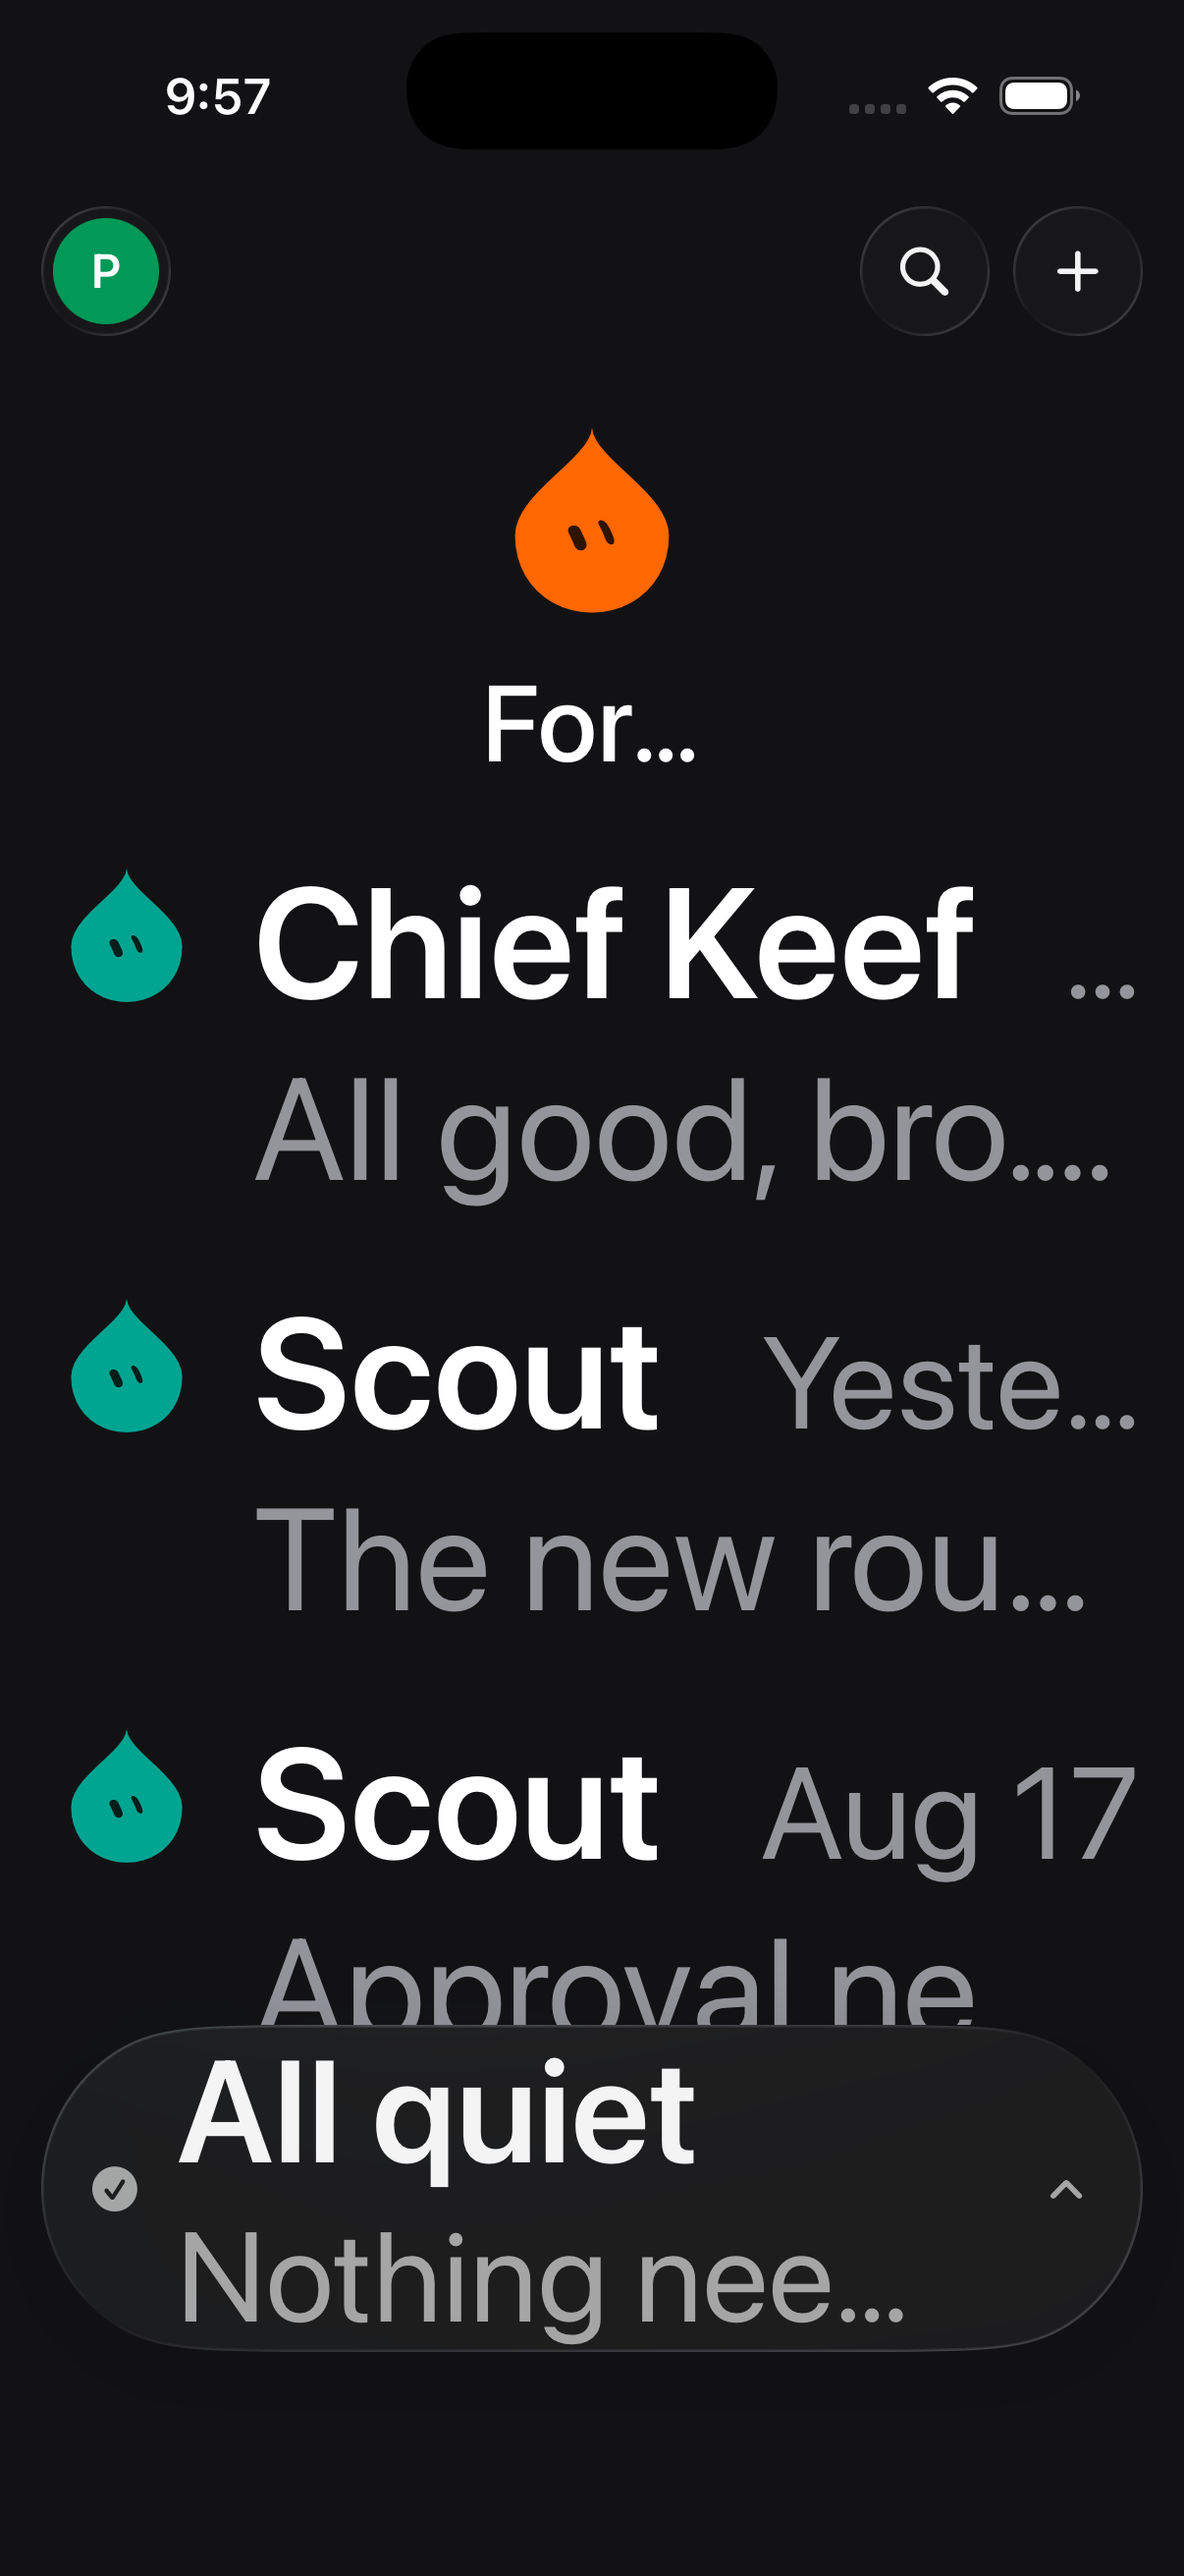
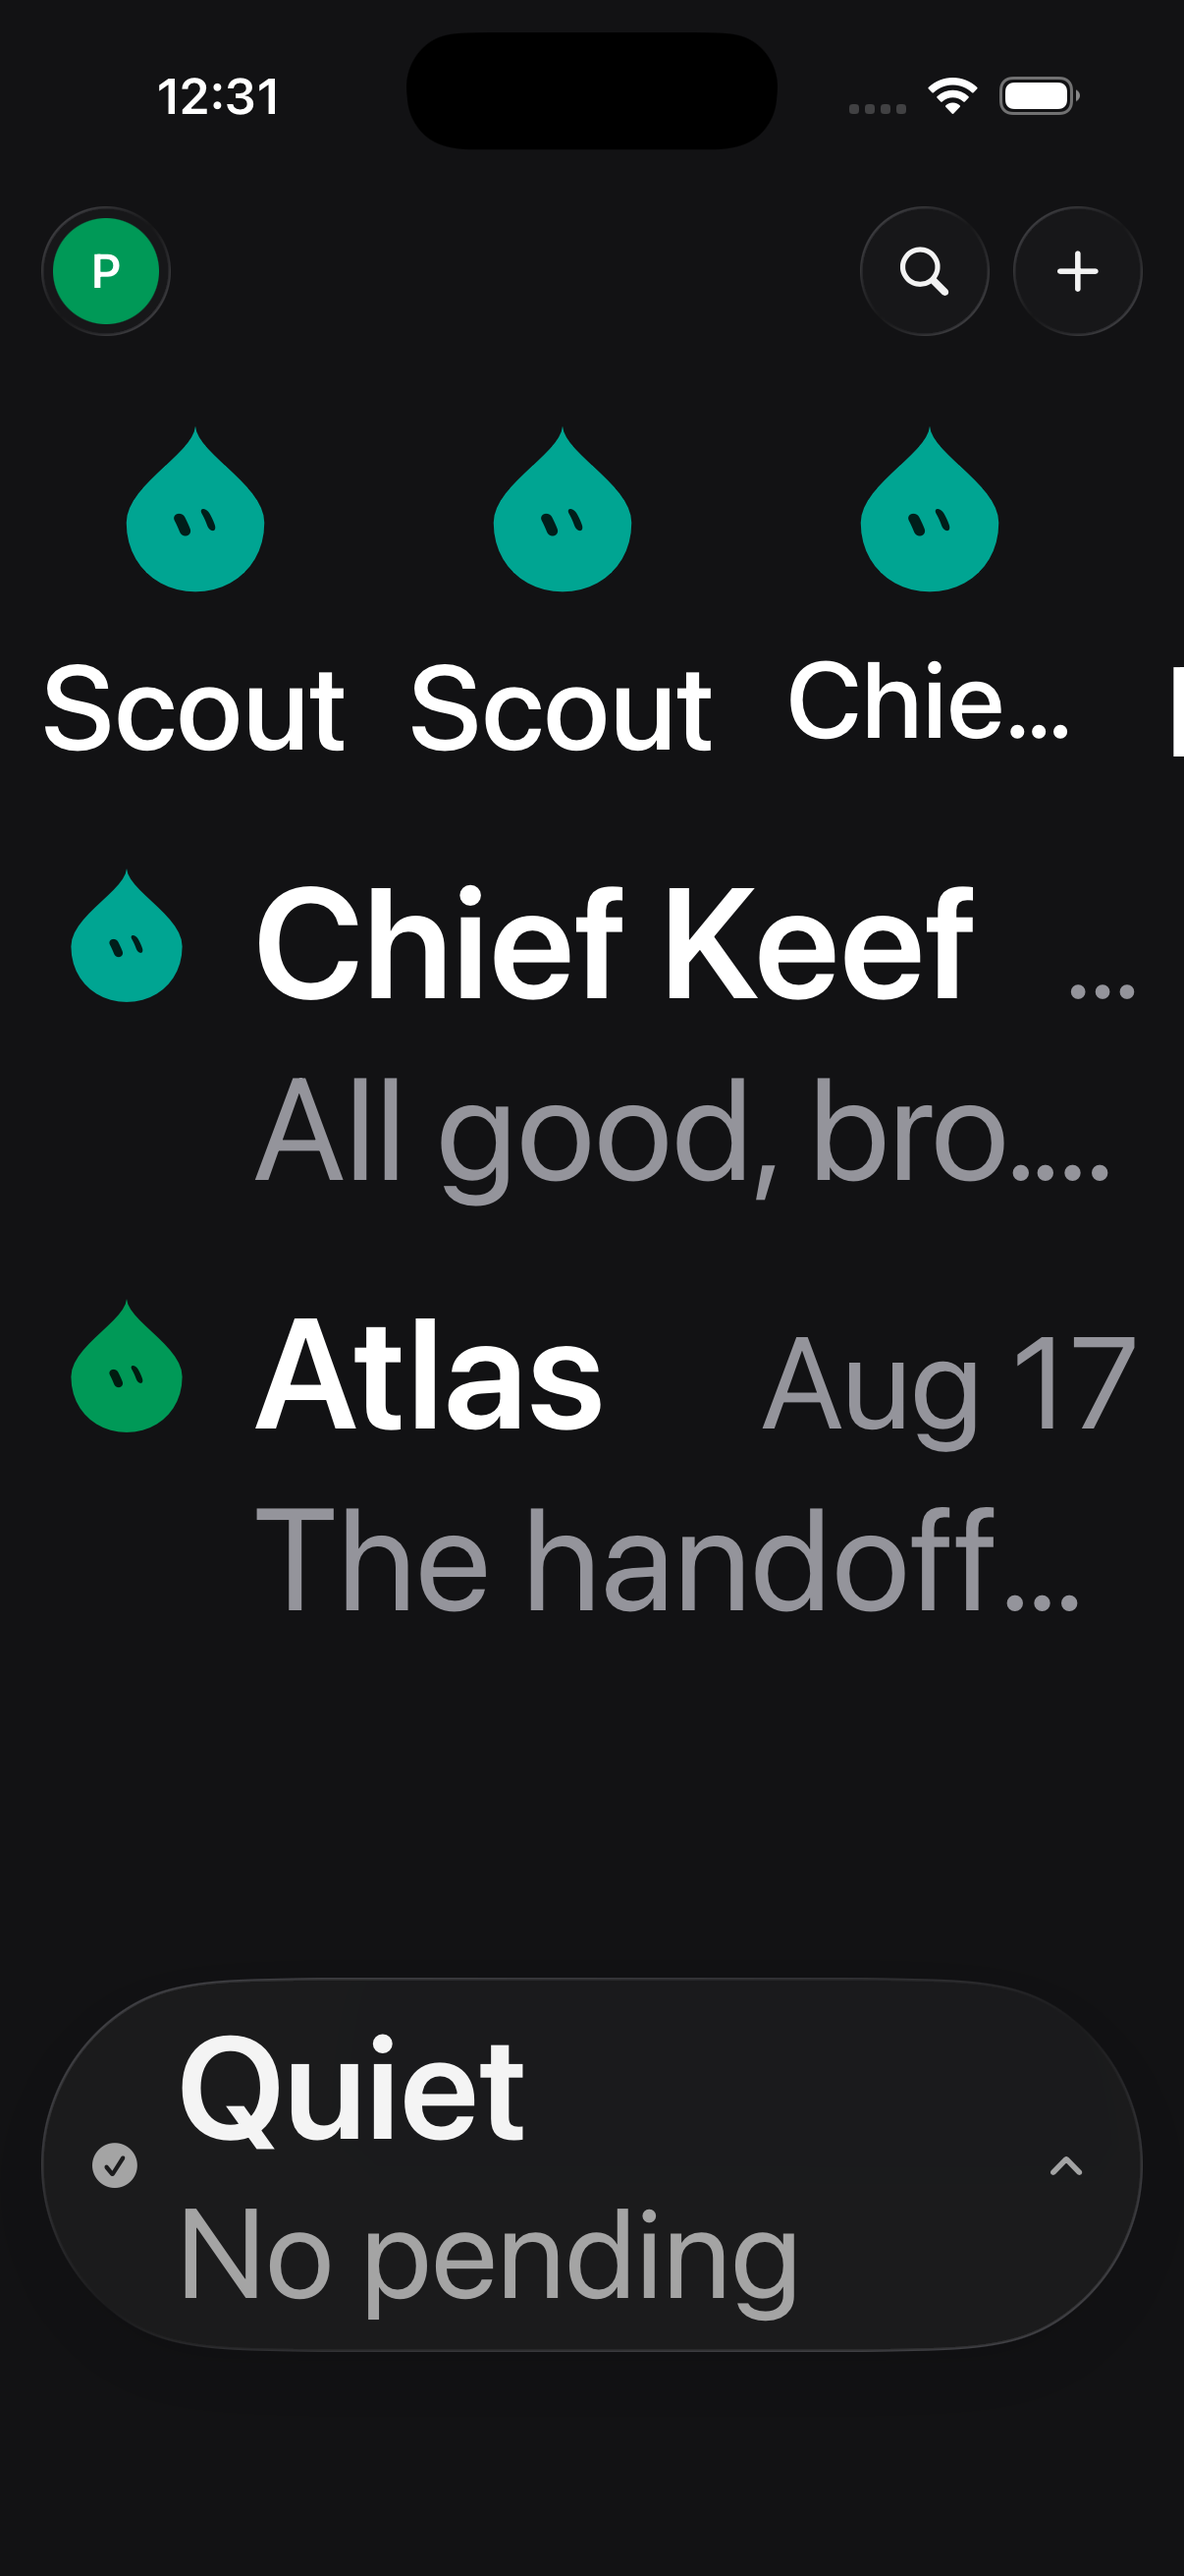
fix(ios): contain accessibility activity rail

diff --git a/ios/App/HomeActivityPill.swift b/ios/App/HomeActivityPill.swift
@@ -79,14 +79,21 @@ struct HomeActivityPill: View {
                     .foregroundStyle(tint)
 
                 VStack(alignment: .leading, spacing: 1) {
-                    Text(presentation.collapsedTitle)
+                    Text(collapsedTitle)
                         .font(.subheadline.weight(.semibold))
-                        .lineLimit(1)
-                    Text(presentation.collapsedSubtitle)
+                        .lineLimit(HomeActivityRailLayoutPolicy.collapsedTitleLineLimit(
+                            isAccessibilitySize: dynamicTypeSize.isAccessibilitySize
+                        ))
+                        .fixedSize(horizontal: false, vertical: true)
+                    Text(collapsedSubtitle)
                         .font(.caption)
                         .foregroundStyle(.secondary)
-                        .lineLimit(1)
+                        .lineLimit(HomeActivityRailLayoutPolicy.collapsedSubtitleLineLimit(
+                            isAccessibilitySize: dynamicTypeSize.isAccessibilitySize
+                        ))
+                        .fixedSize(horizontal: false, vertical: true)
                 }
+                .fixedSize(horizontal: false, vertical: true)
 
                 Spacer(minLength: 8)
                 Image(systemName: expanded ? "chevron.down" : "chevron.up")
@@ -96,10 +103,19 @@ struct HomeActivityPill: View {
             }
             .padding(.leading, 14)
             .padding(.trailing, 4)
-            .frame(minHeight: VBotSurface.Hit.minimum)
+            .padding(.vertical, HomeActivityRailLayoutPolicy.collapsedVerticalPadding(
+                isAccessibilitySize: dynamicTypeSize.isAccessibilitySize
+            ))
+            .frame(
+                minHeight: HomeActivityRailLayoutPolicy.collapsedMinimumHeight(
+                    isAccessibilitySize: dynamicTypeSize.isAccessibilitySize
+                )
+            )
+            .fixedSize(horizontal: false, vertical: true)
             .contentShape(Capsule())
         }
         .buttonStyle(.plain)
+        .fixedSize(horizontal: false, vertical: true)
         .glassCapsule()
         .accessibilityElement(children: .ignore)
         .accessibilityLabel(presentation.accessibilityLabel)
@@ -165,6 +181,34 @@ struct HomeActivityPill: View {
         case .quiet: return .secondary
         case .active: return .accentColor
         case .needsAttention: return .orange
+        }
+    }
+
+    private var collapsedTitle: String {
+        guard HomeActivityRailLayoutPolicy.usesCompactCopy(
+            isAccessibilitySize: dynamicTypeSize.isAccessibilitySize
+        ) else { return presentation.collapsedTitle }
+        switch presentation.state {
+        case .quiet:
+            return "Quiet"
+        case .needsAttention:
+            return "\(presentation.needsYou.count) waiting"
+        case .active:
+            return "\(presentation.totalActivityCount) active"
+        }
+    }
+
+    private var collapsedSubtitle: String {
+        guard HomeActivityRailLayoutPolicy.usesCompactCopy(
+            isAccessibilitySize: dynamicTypeSize.isAccessibilitySize
+        ) else { return presentation.collapsedSubtitle }
+        switch presentation.state {
+        case .quiet:
+            return "No pending"
+        case .needsAttention:
+            return "Review now"
+        case .active:
+            return "Working now"
         }
     }
 }

diff --git a/ios/Tests/CompanionCoreTests/HomeActivityRailLayoutPolicyTests.swift b/ios/Tests/CompanionCoreTests/HomeActivityRailLayoutPolicyTests.swift
@@ -1,0 +1,55 @@
+import XCTest
+@testable import CompanionCore
+
+final class HomeActivityRailLayoutPolicyTests: XCTestCase {
+    func testRegularCollapsedRailRetainsCompactPremiumMetrics() {
+        XCTAssertEqual(
+            HomeActivityRailLayoutPolicy.collapsedTitleLineLimit(isAccessibilitySize: false),
+            1
+        )
+        XCTAssertEqual(
+            HomeActivityRailLayoutPolicy.collapsedSubtitleLineLimit(isAccessibilitySize: false),
+            1
+        )
+        XCTAssertEqual(
+            HomeActivityRailLayoutPolicy.collapsedMinimumHeight(isAccessibilitySize: false),
+            44
+        )
+        XCTAssertEqual(
+            HomeActivityRailLayoutPolicy.collapsedVerticalPadding(isAccessibilitySize: false),
+            0
+        )
+    }
+
+    func testAccessibilityCollapsedRailUsesCompactSingleLineLabels() {
+        XCTAssertEqual(
+            HomeActivityRailLayoutPolicy.collapsedTitleLineLimit(isAccessibilitySize: true),
+            1
+        )
+        XCTAssertEqual(
+            HomeActivityRailLayoutPolicy.collapsedSubtitleLineLimit(isAccessibilitySize: true),
+            1
+        )
+        XCTAssertTrue(
+            HomeActivityRailLayoutPolicy.usesCompactCopy(isAccessibilitySize: true)
+        )
+        XCTAssertFalse(
+            HomeActivityRailLayoutPolicy.usesCompactCopy(isAccessibilitySize: false)
+        )
+        XCTAssertEqual(
+            HomeActivityRailLayoutPolicy.collapsedMinimumHeight(isAccessibilitySize: true),
+            112
+        )
+        XCTAssertEqual(
+            HomeActivityRailLayoutPolicy.collapsedVerticalPadding(isAccessibilitySize: true),
+            8
+        )
+    }
+
+    func testAccessibilityRailIsTallerThanRegularRail() {
+        XCTAssertGreaterThan(
+            HomeActivityRailLayoutPolicy.collapsedMinimumHeight(isAccessibilitySize: true),
+            HomeActivityRailLayoutPolicy.collapsedMinimumHeight(isAccessibilitySize: false)
+        )
+    }
+}

diff --git a/ios/Sources/CompanionCore/HomeActivityRailLayoutPolicy.swift b/ios/Sources/CompanionCore/HomeActivityRailLayoutPolicy.swift
@@ -1,0 +1,26 @@
+import CoreGraphics
+
+/// Layout metrics for the collapsed home activity rail. Accessibility text
+/// uses compact, single-line visual copy with a larger vertical budget; keeping
+/// the decision in core makes the view's sizing contract testable without Xcode.
+public enum HomeActivityRailLayoutPolicy: Sendable {
+    public static func collapsedTitleLineLimit(isAccessibilitySize: Bool) -> Int {
+        1
+    }
+
+    public static func collapsedSubtitleLineLimit(isAccessibilitySize: Bool) -> Int {
+        1
+    }
+
+    public static func usesCompactCopy(isAccessibilitySize: Bool) -> Bool {
+        isAccessibilitySize
+    }
+
+    public static func collapsedMinimumHeight(isAccessibilitySize: Bool) -> CGFloat {
+        isAccessibilitySize ? 112 : 44
+    }
+
+    public static func collapsedVerticalPadding(isAccessibilitySize: Bool) -> CGFloat {
+        isAccessibilitySize ? 8 : 0
+    }
+}

diff --git a/ios/TESTING.md b/ios/TESTING.md
@@ -173,7 +173,7 @@ paid account is required to run on your own phone.
 
 ---
 
-## Integrated home-activity release gate (2026-08-31)
+## Integrated home-activity release gate (2026-09-01 final verification)
 
 This is the verified simulator evidence for the home activity and connection
 feedback changes on `feat/vbot-ios-home-activity-0831`. It is evidence for this
@@ -211,28 +211,40 @@ fully readable without covering roster rows; normal launches are unchanged.
 
 The home activity rail is a sibling below the roster scroll view. Its full
 expanded height is reserved even at accessibility XXXL, so enlarged rows stay
-outside the panel and remain reachable by scrolling. Reduce Motion removes the
+outside the panel and remain reachable by scrolling. The collapsed rail keeps
+the normal premium 44-point appearance, while accessibility sizes use compact
+single-line visual copy and a 112-point minimum height so XXXL labels stay
+inside the capsule without crossing the roster or expanded-panel boundary.
+VoiceOver continues to receive the full presentation label/value, and the
+button remains one tappable hit target. Reduce Motion removes the
 spring/rotation transitions while retaining the same content and hit targets.
 
 Verified commands (all passed):
 
 ```sh
+swift test --package-path ios --filter 'HomeActivityRailLayoutPolicyTests|HomeActivityPresentationTests|HomeActivityPreviewExpansionPolicyTests'
 swift test --package-path ios
 (cd ios && xcodegen generate)
 xcodebuild -project ios/OpenMausCompanion.xcodeproj -scheme OpenMausCompanion \
   -sdk iphonesimulator -configuration Debug \
   -destination 'platform=iOS Simulator,id=334FC58E-19DA-460C-AC2A-1D34D7CAA916' \
-  -derivedDataPath /tmp/vbot-task4-debug-derived-0831 \
+  -derivedDataPath /tmp/vbot-pill-fix-final-debug-0901 \
   CODE_SIGNING_ALLOWED=NO CODE_SIGNING_REQUIRED=NO build
 xcodebuild -project ios/OpenMausCompanion.xcodeproj -scheme OpenMausCompanion \
   -sdk iphonesimulator -configuration Release \
   -destination 'platform=iOS Simulator,id=334FC58E-19DA-460C-AC2A-1D34D7CAA916' \
-  -derivedDataPath /tmp/vbot-task4-release-derived-0831 \
+  -derivedDataPath /tmp/vbot-pill-fix-final-release-0901 \
   CODE_SIGNING_ALLOWED=NO CODE_SIGNING_REQUIRED=NO build
+git diff --check
 ```
 
-The Swift gate ran 692 XCTest cases with zero failures and 17 Swift Testing
-cases in four suites. Both simulator builds ended with `** BUILD SUCCEEDED **`.
+The focused rail/presentation gate passed 3 XCTest cases and 7 Swift Testing
+cases. The full Swift gate ran 700 XCTest cases with zero failures and 20 Swift
+Testing cases in five suites. The earlier 697-XCTest gate is superseded because
+this final fix adds three policy tests. Both simulator builds ended with
+`** BUILD SUCCEEDED **`; the derived-data logs are
+`/tmp/vbot-pill-fix-final-debug-0901.log` and
+`/tmp/vbot-pill-fix-final-release-0901.log`.
 The screenshots and the exact interaction steps are recorded in
 `.superpowers/sdd/task-4-report.md`.
 
@@ -244,10 +256,12 @@ halo captures, needs-attention expanded activity at accessibility XXXL with
 Reduce Motion on and off, expanded active activity at accessibility XXXL with
 Reduce Motion on and off, connecting at accessibility XXXL with Reduce Motion
 on and off, and work cards with and without optional actions. Needs/active
-expanded captures `13`, `18`, `19`, and `24` were recaptured from the
-preview-expansion-fix build; connecting captures `20` and `21` retain their
-`post-f891526` suffix. These verify that enlarged roster rows remain outside
-the expanded panel and that detail text remains readable.
+expanded captures `13`, `18`, `19`, and `24`, plus collapsed `09`, `10`, `11`,
+and `12`, were recaptured from the final pill-containment Debug build at
+accessibility XXXL with Reduce Motion both on and off. Connecting captures
+`20` and `21` retain their `post-f891526` suffix. These verify that enlarged
+roster rows remain outside the expanded panel, the collapsed XXXL copy stays
+inside its capsule, and detail text remains readable.
 All images are 1206 x 2622 PNGs from the simulator above.
 
 ## Stage 4 — the thing actually working

diff --git a/.superpowers/sdd/task-4-report.md b/.superpowers/sdd/task-4-report.md
@@ -345,3 +345,69 @@ git diff --check
 All commands passed; both simulator builds ended with `** BUILD SUCCEEDED **`
 using iOS Simulator SDK 26.5. No signing, device archive, TestFlight upload,
 deploy, merge, or backend contract change was attempted.
+
+## Final accessibility pill containment fix
+
+Date: 2026-09-01 (America/Chicago)
+Starting commit: `f348faa fix(ios): close final review gaps`
+
+The final Important finding is closed. `HomeActivityPill` now keeps its normal
+44-point premium rail at regular Dynamic Type sizes. At accessibility sizes it
+uses compact single-line visual copy and a 112-point minimum rail height with
+vertical padding, so XXXL text stays inside the capsule and below the roster or
+expanded panel. The full presentation label/value and hint remain on the one
+tappable button for VoiceOver; the rail remains a sibling of the roster.
+
+The sizing contract is isolated in
+`ios/Sources/CompanionCore/HomeActivityRailLayoutPolicy.swift` and covered by
+`ios/Tests/CompanionCoreTests/HomeActivityRailLayoutPolicyTests.swift`.
+TDD evidence: the focused policy test first failed to compile before the policy
+was added (`cannot find 'HomeActivityRailLayoutPolicy' in scope`), then passed
+3 XCTest cases after implementation. The focused presentation/preview filter
+also passed 7 Swift Testing cases.
+
+Final verification (all passed):
+
+```sh
+swift test --package-path ios --filter 'HomeActivityRailLayoutPolicyTests|HomeActivityPresentationTests|HomeActivityPreviewExpansionPolicyTests'
+swift test --package-path ios
+(cd ios && xcodegen generate)
+xcodebuild -project ios/OpenMausCompanion.xcodeproj -scheme OpenMausCompanion \
+  -sdk iphonesimulator -configuration Debug \
+  -destination 'platform=iOS Simulator,id=334FC58E-19DA-460C-AC2A-1D34D7CAA916' \
+  -derivedDataPath /tmp/vbot-pill-fix-final-debug-0901 \
+  CODE_SIGNING_ALLOWED=NO CODE_SIGNING_REQUIRED=NO build
+xcodebuild -project ios/OpenMausCompanion.xcodeproj -scheme OpenMausCompanion \
+  -sdk iphonesimulator -configuration Release \
+  -destination 'platform=iOS Simulator,id=334FC58E-19DA-460C-AC2A-1D34D7CAA916' \
+  -derivedDataPath /tmp/vbot-pill-fix-final-release-0901 \
+  CODE_SIGNING_ALLOWED=NO CODE_SIGNING_REQUIRED=NO build
+git diff --check
+```
+
+The full Swift run passed 700 XCTest cases with zero failures and 20 Swift
+Testing cases in five suites (the prior 697 count increased by the three new
+policy tests). Both simulator builds ended with `** BUILD SUCCEEDED **` using
+Simulator SDK 26.5. The final logs are `/tmp/vbot-pill-fix-swift-final-0901.log`,
+`/tmp/vbot-pill-fix-final-debug-0901.log`, and
+`/tmp/vbot-pill-fix-final-release-0901.log`.
+
+On iPhone 17 Pro simulator `334FC58E-19DA-460C-AC2A-1D34D7CAA916` (iOS 26.5,
+dark, accessibility XXXL), the final Debug build was recaptured with Reduce
+Motion on and off. Full-resolution inspection verified the capsule contains
+`Quiet`/`No pending`, `1 active`/`Working now`, and `1 waiting`/`Review now` in
+both collapsed and expanded states; the rail stays below the expanded panel
+and does not cover roster rows. Replaced portable evidence:
+
+```text
+ios/AppStore/screenshots/task-4-home-activity-2026-08-31/09-quiet-xxxl-reduce-motion-off.png
+ios/AppStore/screenshots/task-4-home-activity-2026-08-31/10-quiet-xxxl-reduce-motion-on.png
+ios/AppStore/screenshots/task-4-home-activity-2026-08-31/11-active-xxxl-reduce-motion-off.png
+ios/AppStore/screenshots/task-4-home-activity-2026-08-31/12-active-xxxl-reduce-motion-on.png
+ios/AppStore/screenshots/task-4-home-activity-2026-08-31/13-expanded-active-xxxl-reduce-motion-on.png
+ios/AppStore/screenshots/task-4-home-activity-2026-08-31/18-expanded-needs-xxxl-reduce-motion-on-post-preview-expansion-fix.png
+ios/AppStore/screenshots/task-4-home-activity-2026-08-31/19-expanded-needs-xxxl-reduce-motion-off-post-preview-expansion-fix.png
+ios/AppStore/screenshots/task-4-home-activity-2026-08-31/24-expanded-active-xxxl-reduce-motion-off-post-preview-expansion-fix.png
+```
+
+No signing, upload, deploy, merge, or device release action was attempted.
